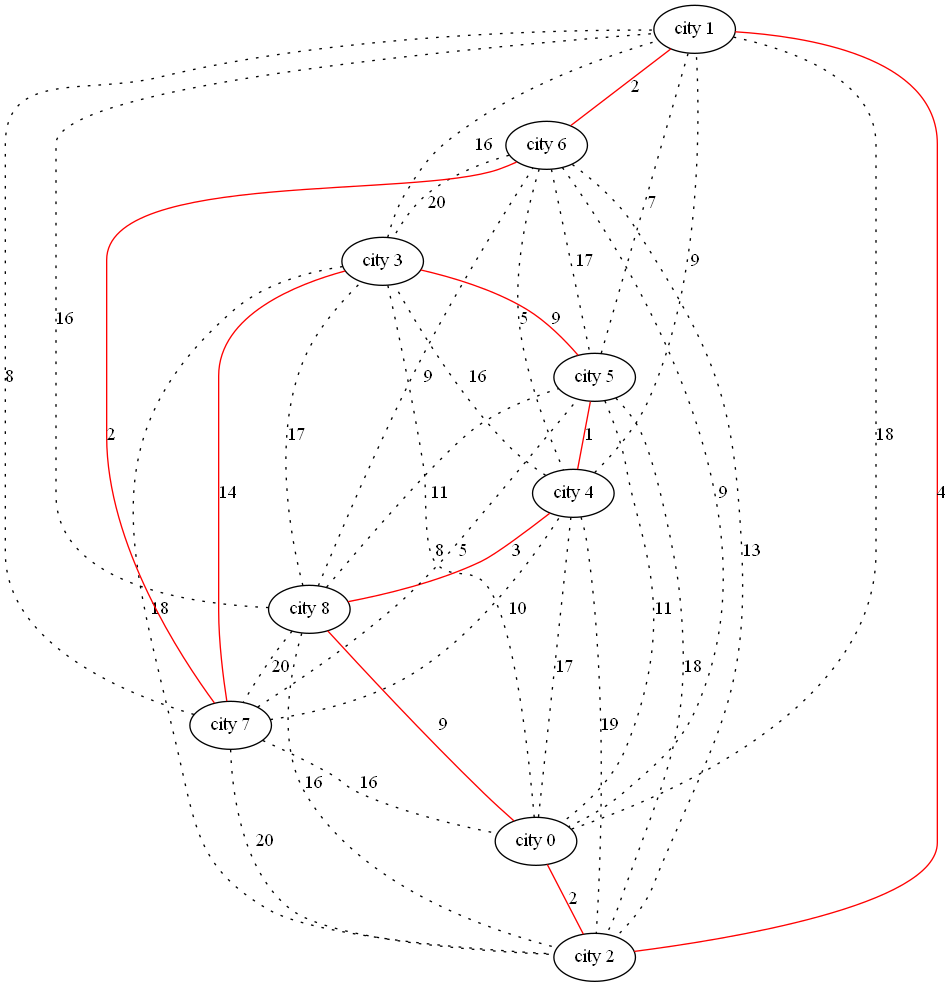
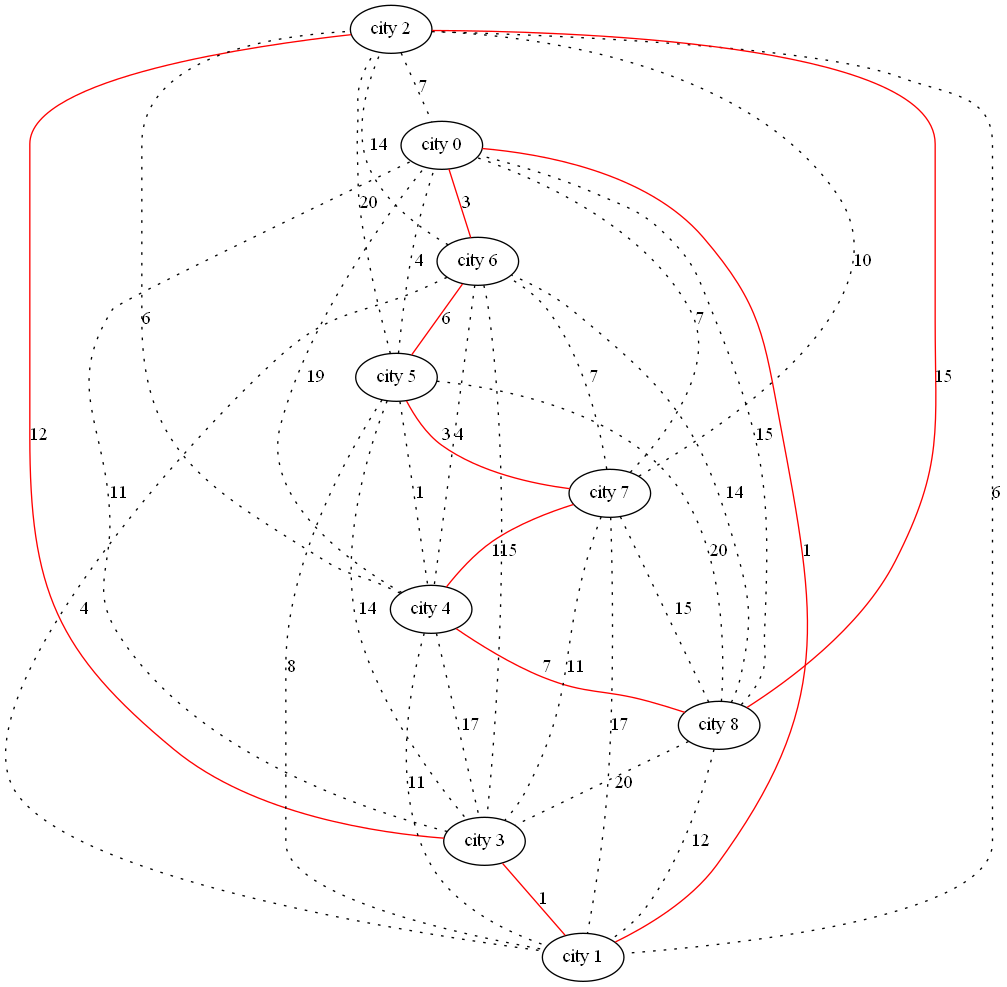
Correct A start + plot

diff --git a/Informed search/Astar.py b/Informed search/Astar.py
@@ -9,7 +9,9 @@ class City:
         self.g = 0
         self.h = 0
         self.f = 0
-        self.list = []
+        self.to_visit = []
+    def __eq__(self, other) -> bool:
+        return self.identifiant == other.identifiant and self.to_visit == other.to_visit 
 
 
 def prims_algorithm(graph):
@@ -47,18 +49,18 @@ def prims_algorithm(graph):
 
 
 def A_star(graph):
-    initial_city = City(random.randint(0, len(graph.nodes())-1), parent=None)
-    initial_city.g = initial_city.h = initial_city.f = 0
 
     frontier = []
-    max_frontier_length = len(frontier)
-    cities_already_explored = []
-    id_of_visited_cities = set()
+    explored = []
+
+    initial_city = City(random.randint(0, len(graph.nodes())-1), parent=None)
     cities_to_visit = [initial_city.identifiant]
     for n in graph.nodes():
         cities_to_visit.append(n)
 
-    initial_city.list = cities_to_visit
+    initial_city.to_visit = cities_to_visit
+   
+   
     frontier.append(initial_city)
 
     while len(frontier) > 0:
@@ -70,14 +72,17 @@ def A_star(graph):
                 current_index = index
 
         frontier.pop(current_index)
-        cities_already_explored.append(current_city)
-        id_of_visited_cities.add(current_city.identifiant)
-        print("flag", current_city.identifiant)
-        #current_city.list.remove(current_city.identifiant)
-        cities_to_visit.remove(current_city.identifiant)
+        explored.append(current_city)
 
+
+
+        #print("**************** current_city", current_city.identifiant)
+        
+        current_city.to_visit.remove(current_city.identifiant)
+        #print("To visit :  ", current_city.to_visit)
         # Found the goal
-        if current_city.identifiant == initial_city.identifiant and len(cities_to_visit) == 0:
+        if current_city.identifiant == initial_city.identifiant and len(current_city.to_visit) == 0:
+            print("Taille de la frontière = ", len(frontier))
             path = []
             current = current_city
             while current is not None:
@@ -87,32 +92,31 @@ def A_star(graph):
 
         # Generate children
         children = []
-        for id in cities_to_visit:
+        for id in current_city.to_visit:
             if id != current_city.identifiant:
                 city = City(identifiant=id, parent=current_city)
+                city.to_visit  = current_city.to_visit.copy()
                 children.append(city)
 
         # Loop through children
         for child in children:
             # Create the f, g, and h values
-            print("TEST: ", current_city.identifiant, child.identifiant)
             child.g = current_city.g + graph[current_city.identifiant][child.identifiant]['weight']
-            sous_graphe = graph.subgraph(list(cities_to_visit).extend([current_city.identifiant, initial_city.identifiant]))
+            sous_graphe = graph.subgraph(list(cities_to_visit).extend([child.identifiant]))
             child.h = prims_algorithm(sous_graphe)
             child.f = child.g + child.h
 
             # On teste si les enfants sont déjà visités
-            for closed_child in cities_already_explored:
-                if child.identifiant == closed_child.identifiant:
+            for node in explored:
+                if child == node:
                     continue
 
             # On teste si les enfants sont déjà dans la frontière.
             # Si oui, on ne les rajoute pas (pour ne pas avoir de doublons)
             for element in frontier:
-                if child.identifiant == element.identifiant and child.g > element.g:
+                if child == element:
                     continue
+
             frontier.append(child)
 
-        if len(frontier) > max_frontier_length:
-            max_frontier_length = len(frontier)
-        print("Taille maximale de la frontière = ", max_frontier_length)
+        #print("Taille de la frontière = ", len(frontier))

diff --git a/Informed search/main.py b/Informed search/main.py
@@ -2,12 +2,39 @@ from Astar import *
 import networkx as nx
 import matplotlib.pyplot as plt
 import random
+import pydot
+
+def drawHamiltonianCircuitFromGraph (graphe, circuit, filename ="solution", namePrefix="city "):
+    print("DRAWING ..")
+    graph = pydot.Dot(graph_type='graph')
+    path = circuit[:-1].copy()
+    edgesInCircuit = set()
+    for i in range(len(path)):
+        edge = (path[i - 1], path[i])
+        edgesInCircuit.add(edge)
+        edgesInCircuit.add(edge[::-1])
+
+    for i,j in graphe.edges :
+        if (i, j) not in edgesInCircuit and i != j :
+            weight = graphe[i][j]["weight"]
+            graph.add_edge(pydot.Edge(namePrefix + str(i), namePrefix + str(j), label=str(weight), style="dotted"))
+
+    for i in range(len(path)):
+        weight = graphe[path[i - 1]][path[i]]["weight"]
+        graph.add_edge(pydot.Edge(namePrefix + str(path[i - 1]), namePrefix + str(path[i]), color="red", label=str(weight)))
+
+    graph.write_png(filename+'.png')
+
+    print("ENDED DRAWING")
 
 
 def main():
     #create a graph
+
+    random.seed(12)
+
     graph = nx.Graph()
-    number_of_nodes = nx.path_graph(5)
+    number_of_nodes = nx.path_graph(8)
     graph.add_nodes_from(number_of_nodes)
     print("number of nodes in graph: ", graph.number_of_nodes())
 
@@ -22,11 +49,13 @@ def main():
     #nx.draw(graph)
     #plt.show()
 
-    print(graph.nodes())
+    #print(graph.nodes())
 
-    print("La valeur du chemin de l'arbre couvrant minimal est: ", primsAlgorithm(graph))
+    #print("La valeur du chemin de l'arbre couvrant minimal est: ", primsAlgorithm(graph))
     path = A_star(graph)
-    print(path)
+    print("Circuit hamiltonien", path)
+
+    drawHamiltonianCircuitFromGraph(graphe=graph, circuit=path, filename="astar")
 
 
 if __name__ == "__main__":

diff --git a/Genetic algorithm/main.py b/Genetic algorithm/main.py
@@ -188,7 +188,7 @@ def setNbvillesAComparer(var):
 def choix():
     global choix
     choix = 2
-    fenetre.destroy()
+    #fenetre.destroy()
     fen = Tk()
     cadre2 = Frame(fen, padx="500", height=500, borderwidth=1)
 
@@ -235,16 +235,17 @@ if __name__ == '__main__':
     Villes = []
     distancesTots = []
 
-    fenetre = Tk()
+    """fenetre = Tk()
     cadre = Frame(fenetre, borderwidth=1)
     champ_label2 = Label(fenetre, text="Génération des villes aléatoires :")
     bouton_choix = Button(fenetre, text="Générer les villes", command=choix)
     champ_label2.pack()
-    bouton_choix.pack(side=RIGHT, padx=70)
-    fenetre.mainloop()
+    bouton_choix.pack(side=RIGHT, padx=70)"""
+    choix()
+    #fenetre.mainloop()
 
-    if choix == 2:
-        villes_aleatoires()
+    
+    villes_aleatoires()
 
     # on initialise la population avec 20 circuits
     pop = Population(nbpops, True)

diff --git a/hill climbing et variantes/main.py b/hill climbing et variantes/main.py
@@ -66,13 +66,8 @@ def test():
     print(tsp.stateCost(tsp.initialState))
 
 
-<<<<<<< HEAD
 def main() :
     num_cities = 9
-=======
-def main():
-    num_cities = 10
->>>>>>> 3cc9e9bea3bcf43cae38e1277e73736ed2ad3d64
     matrice = generateInstance(
         num_cities=num_cities, borne_inf=1, borne_sup=20
     )
